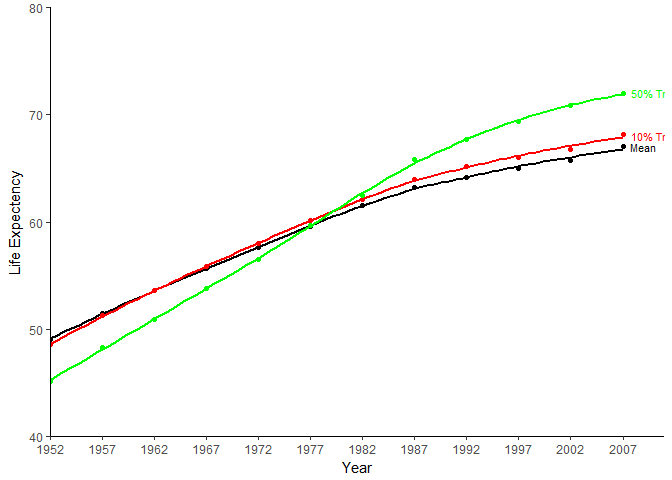
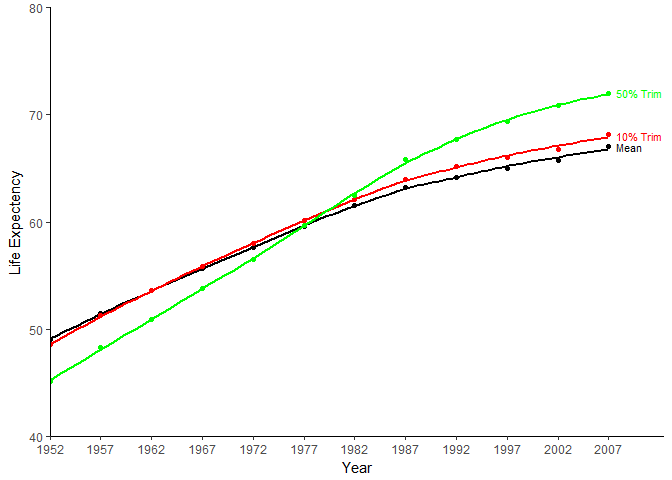
R Studio

diff --git a/hw03/hw3.md b/hw03/hw3.md
@@ -167,9 +167,8 @@ geom_point(aes(y = Trim10), color = "red")+
 geom_smooth(aes(y=Trim10), se = "FALSE", method = 'loess', color = "red")+
 geom_point(aes(y = Trim50), color = "green")+
 geom_smooth(aes(y=Trim50), se = "FALSE", method = 'loess', color = "green") +
-coord_cartesian(ylim = c(40,80), xlim = c(1952,2011)) + #Study start and end time
 scale_y_continuous(expand= c(0,0), breaks=seq(40,80,10), lim = c(40,80)) +
-scale_x_continuous(expand= c(0,0), breaks=seq(1952,2011,5), lim = c(1952,2011)) +  #Set range and axis increments to be every 5 years to match empirical data 
+scale_x_continuous(expand= c(0,0), breaks=seq(1952,2011,5), lim = c(1952,2012.5)) +  #Set range and axis increments to be every 5 years to match empirical data 
 xlab("Year") +
 ylab("Life Expectency") +
   
@@ -374,7 +373,7 @@ group_by(continent, year) %>%
   xlab("Year") +
   ylab("Life Expectancy")+
   geom_vline(xintercept = 2007, color = "grey", linetype = "longdash", size = 1) +
-  annotate("text", x = 2021, y = 89, size = 3.5, color = "black", label = "Predicted Life Expectency") +
+  annotate("text", x = 2022, y = 89, size = 3.5, color = "black", label = "Predicted Life Expectency") +
   theme(axis.text.x=element_text(angle=45,hjust=1)) +
   scale_colour_discrete(name = "Continent") +    
   aesthetictheme 
